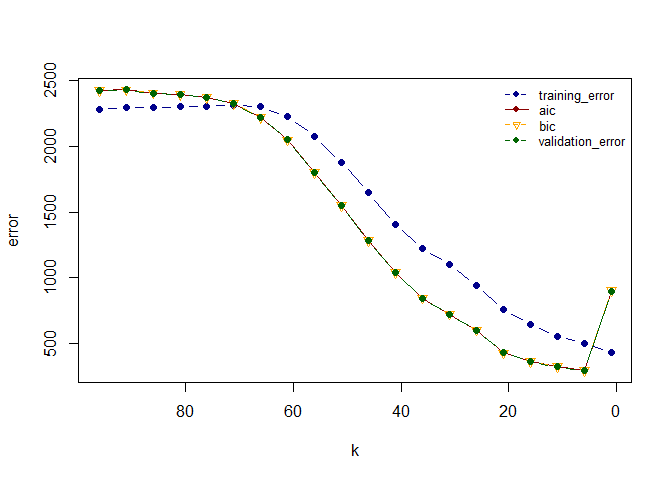
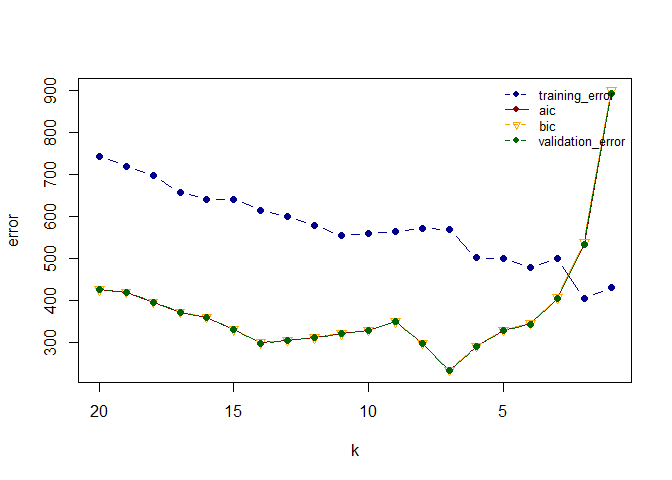
updated hw5

diff --git a/Homework 5/Homework-5.md b/Homework 5/Homework-5.md
@@ -57,6 +57,9 @@ y_val=val[,2]
 ```
 
 ``` r
+y <- mcycle$accel
+x <- mcycle$times
+
 ## k-NN kernel function
 ## x  - n x p matrix of training inputs
 ## x0 - 1 x p input where to make prediction
@@ -91,9 +94,28 @@ nadaraya_watson <- function(y, x, x0, kern, ...) {
   return(yhat)
 }
 
+## create a grid of inputs 
+x_plot <- matrix(seq(min(x),max(x),length.out=100),100,1)
+
+## make predictions using NW method for k=1, k=10 and k=20
+y_hat_plot_1 <- nadaraya_watson(y, x, x_plot, kern=kernel_k_nearest_neighbors, k=1)
+y_hat_plot_10 <- nadaraya_watson(y, x, x_plot, kern=kernel_k_nearest_neighbors, k=10)
+y_hat_plot_20 <- nadaraya_watson(y, x, x_plot, kern=kernel_k_nearest_neighbors, k=20)
+
+## plot predictions
+plot(x, y, xlab="Time (ms)", ylab="Acceleration (g)")
+lines(x_plot, y_hat_plot_1, col="darkblue", lwd=2) 
+lines(x_plot, y_hat_plot_10, col="darkred", lwd=2) 
+lines(x_plot, y_hat_plot_20, col="darkgreen", lwd=2) 
+legend('bottomright', c('k=1', 'k=10', 'k=20'), cex=0.8, col=c('darkblue', 'darkred', 'darkgreen'), bty='n', lty=1)
+```
+
+![](Homework-5_files/figure-gfm/unnamed-chunk-2-1.png)<!-- -->
+
+``` r
 # print yhat by varying the tuning parameter over a sequence of values
 y_train_hat=vector()
-k=seq(1,100,by=5)
+k=1:20
 for (i in k){
 output=nadaraya_watson(y_train, X_train, X_train, kern=kernel_k_nearest_neighbors, i)
 y_train_hat=c(y_train_hat, output)
@@ -110,9 +132,7 @@ colnames(y_train_hat)=paste0("k=", k)
 
 y_val_hat=matrix(y_val_hat, length(y_val), length(k))
 colnames(y_val_hat)=paste0("k=", k)
-```
 
-``` r
 ## Compute effective df using NW method
 ## y  - n x 1 vector of training outputs
 ## x  - n x p matrix of training inputs
@@ -233,13 +253,10 @@ for (i in 1:length(k)){
 
 ![](Homework-5_files/figure-gfm/unnamed-chunk-5-1.png)<!-- -->
 
-From the plot above, we can see the distribution of average test error
-with a series of k values and the range of standard deviation of the
-five estimates from each fold. As k goes up, the CV-estimated test error
-first goes down and then goes up, while the standard deviation goes
-down. It means when k is big enough, CV-estimated test error will not
-deviate much. According to the plot with training error, aic, bic,
-validation error and the plot above, we can choose 6 for k as when k=6,
-we can have the model with small training error, aic, bic, validation
-error, the least CV-estimated test error and the standard deviation is
-acceptable.
+From the plot above, we can see that the larger the k is, the error
+first goes down and then goes up and the sd becomes smaller. The
+selection of k will be a bias-variance tradeoff because when the larger
+k is, the larger the bias is and the smaller the sd is. When k is
+larger, the model will be more complex and it will be less sensitive to
+the noise. Therefore, for this problem, we can choose 3 for k. When k=3,
+the model has a pair of relatively small average test error and sd.
